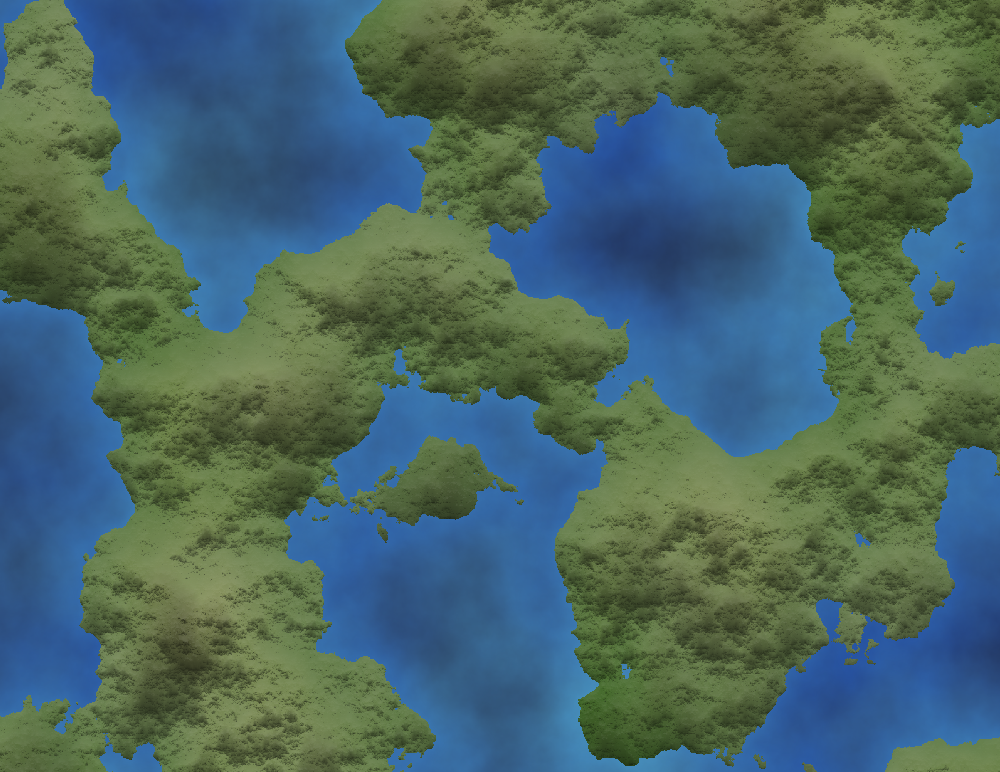
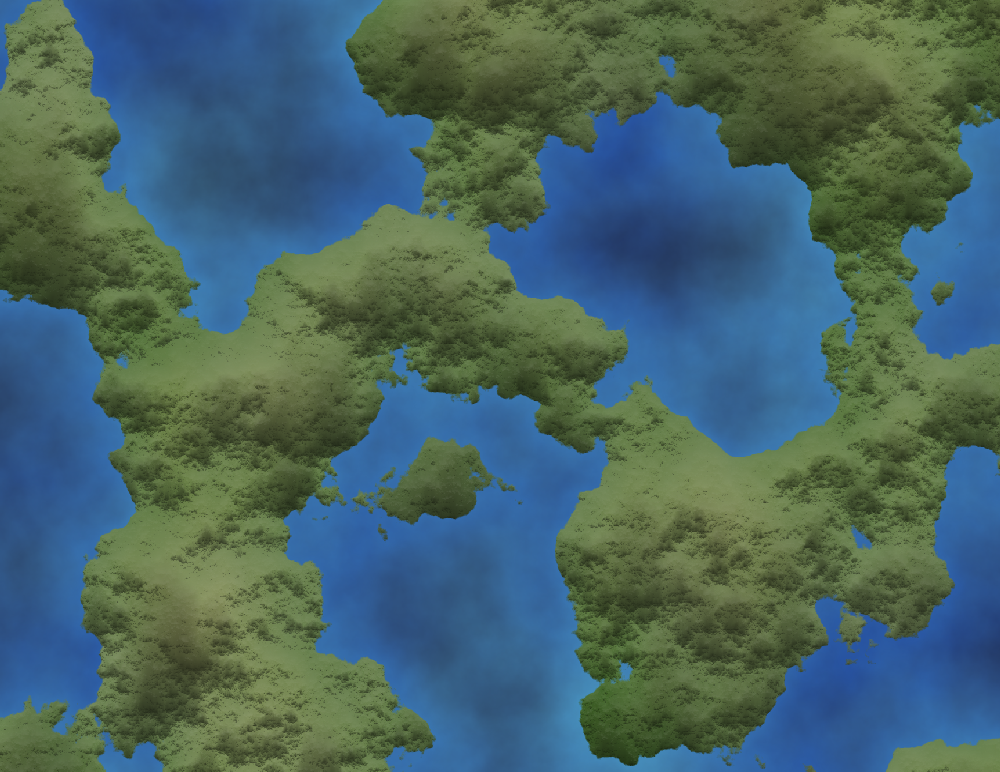
Updated generation values

diff --git a/MapGenerator.java b/MapGenerator.java
@@ -119,6 +119,8 @@ public class MapGenerator {
     static float maxShadow = 0;
     static float minShadow = 0;
 
+    static float HEIGHT_MODIFIER = 0;
+
     // DO NOT ADJUST
     static final float CLIMATE_SEPARATION = 2f, COLOR_BLEND = 1f;
     static final float LEVEL_DEEP = 0.1f, LEVEL_OCEAN = 0.3f, LEVEL_COAST = 0.45f, LEVEL_LAND = 0.7f, LEVEL_MOUNTAIN = 0.9f;
@@ -150,7 +152,7 @@ public class MapGenerator {
             System.out.println(seed);
         }
 
-        float[][] heightMap = getMap(0, 0);
+        float[][] heightMap = getMap(0, HEIGHT_MODIFIER);
         float[][] tempMap = new float[0][0];
         float[][] humidityMap = new float[0][0];
         int[][] topologyStepMap = new int[0][0];
@@ -310,7 +312,7 @@ public class MapGenerator {
     public float[][] getHighlightMap() {
         int num = 500;
         float realNum = (num / scale);
-        float[][] heightMap = PerlinMap.generateMap(x, y, width, height + realNum, renderWidth, renderHeight + num, getKey( 0));
+        float[][] heightMap = PerlinMap.generateMap(x, y, width, height + realNum, renderWidth, renderHeight + num, HEIGHT_MODIFIER, getKey( 0));
         // float[][] heightMap = PerlinMap.generateMap(x, y, width, height, renderWidth, renderHeight, getKey(seed, 0));
         float[][] highlightMap = new float[renderWidth][renderHeight];
         for (int x = 0; x < renderWidth; x++) {
@@ -336,7 +338,7 @@ public class MapGenerator {
     public float[][] getShadowMap() {
         int num = 500;
         float realNum = (num / scale);
-        float[][] heightMap = PerlinMap.generateMap(x, y, width, height + realNum, renderWidth, renderHeight + num, getKey(0));
+        float[][] heightMap = PerlinMap.generateMap(x, y, width, height + realNum, renderWidth, renderHeight + num, HEIGHT_MODIFIER, getKey(0));
         // float[][] heightMap = PerlinMap.generateMap(x, y, width, height, renderWidth, renderHeight, getKey(seed, 0));
         float[][] shadowMap = new float[renderWidth][renderHeight];
         for (int x = 0; x < renderWidth; x++) {
